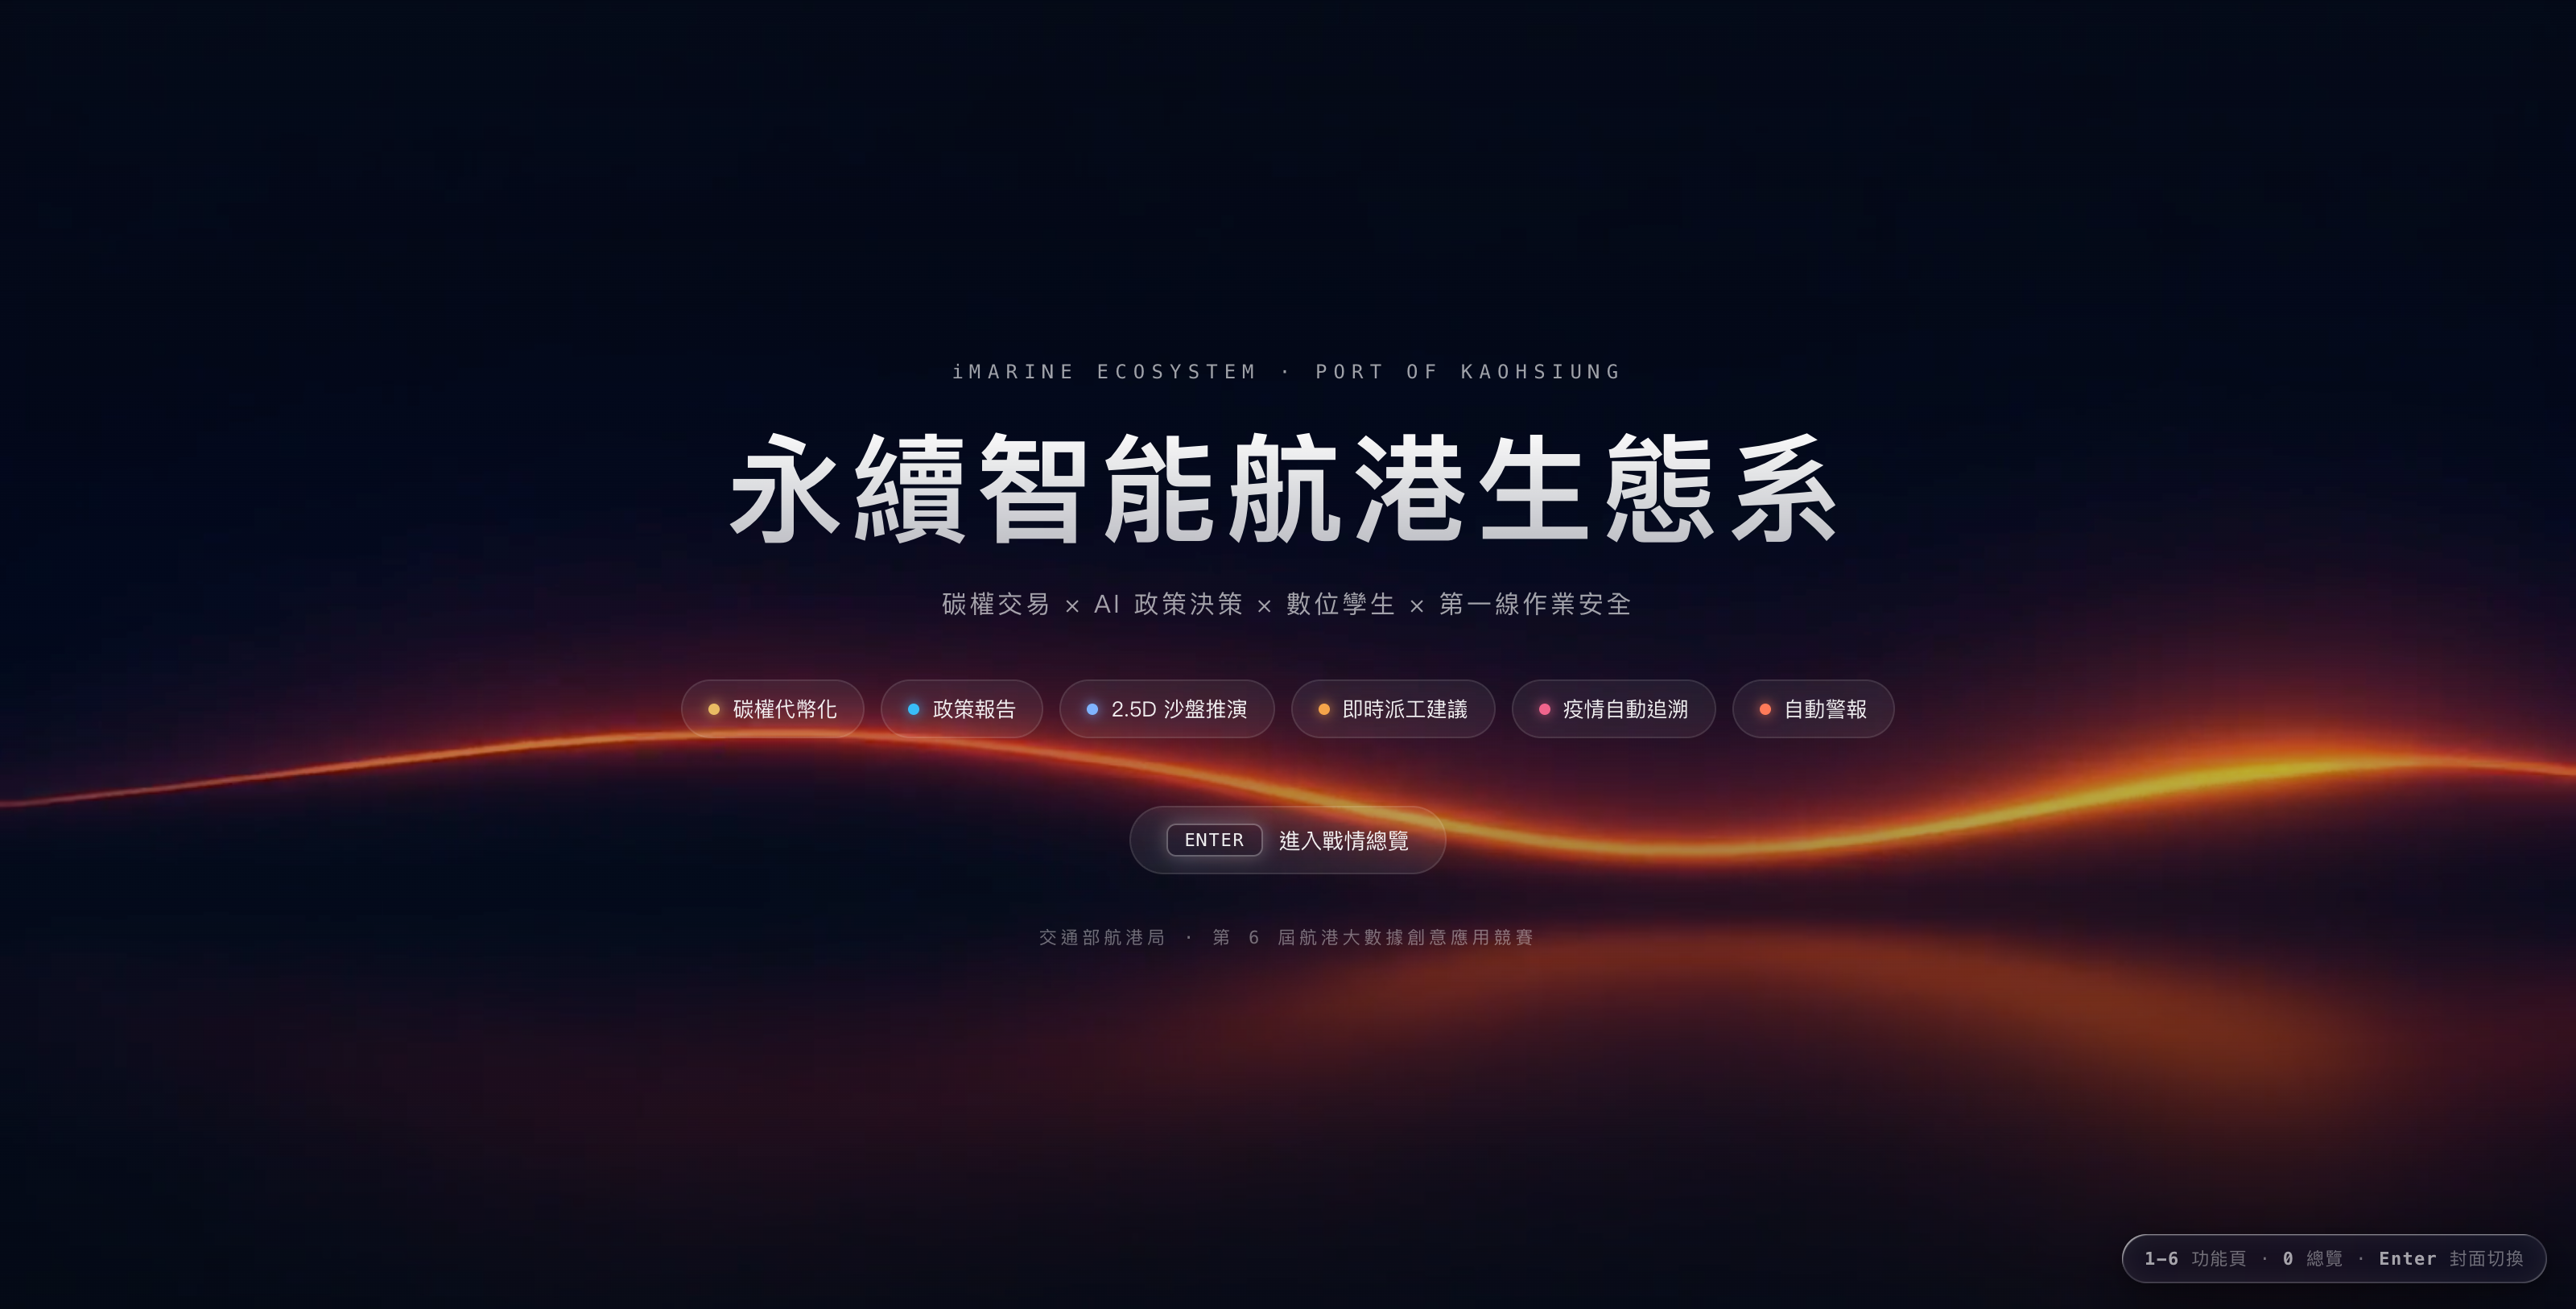
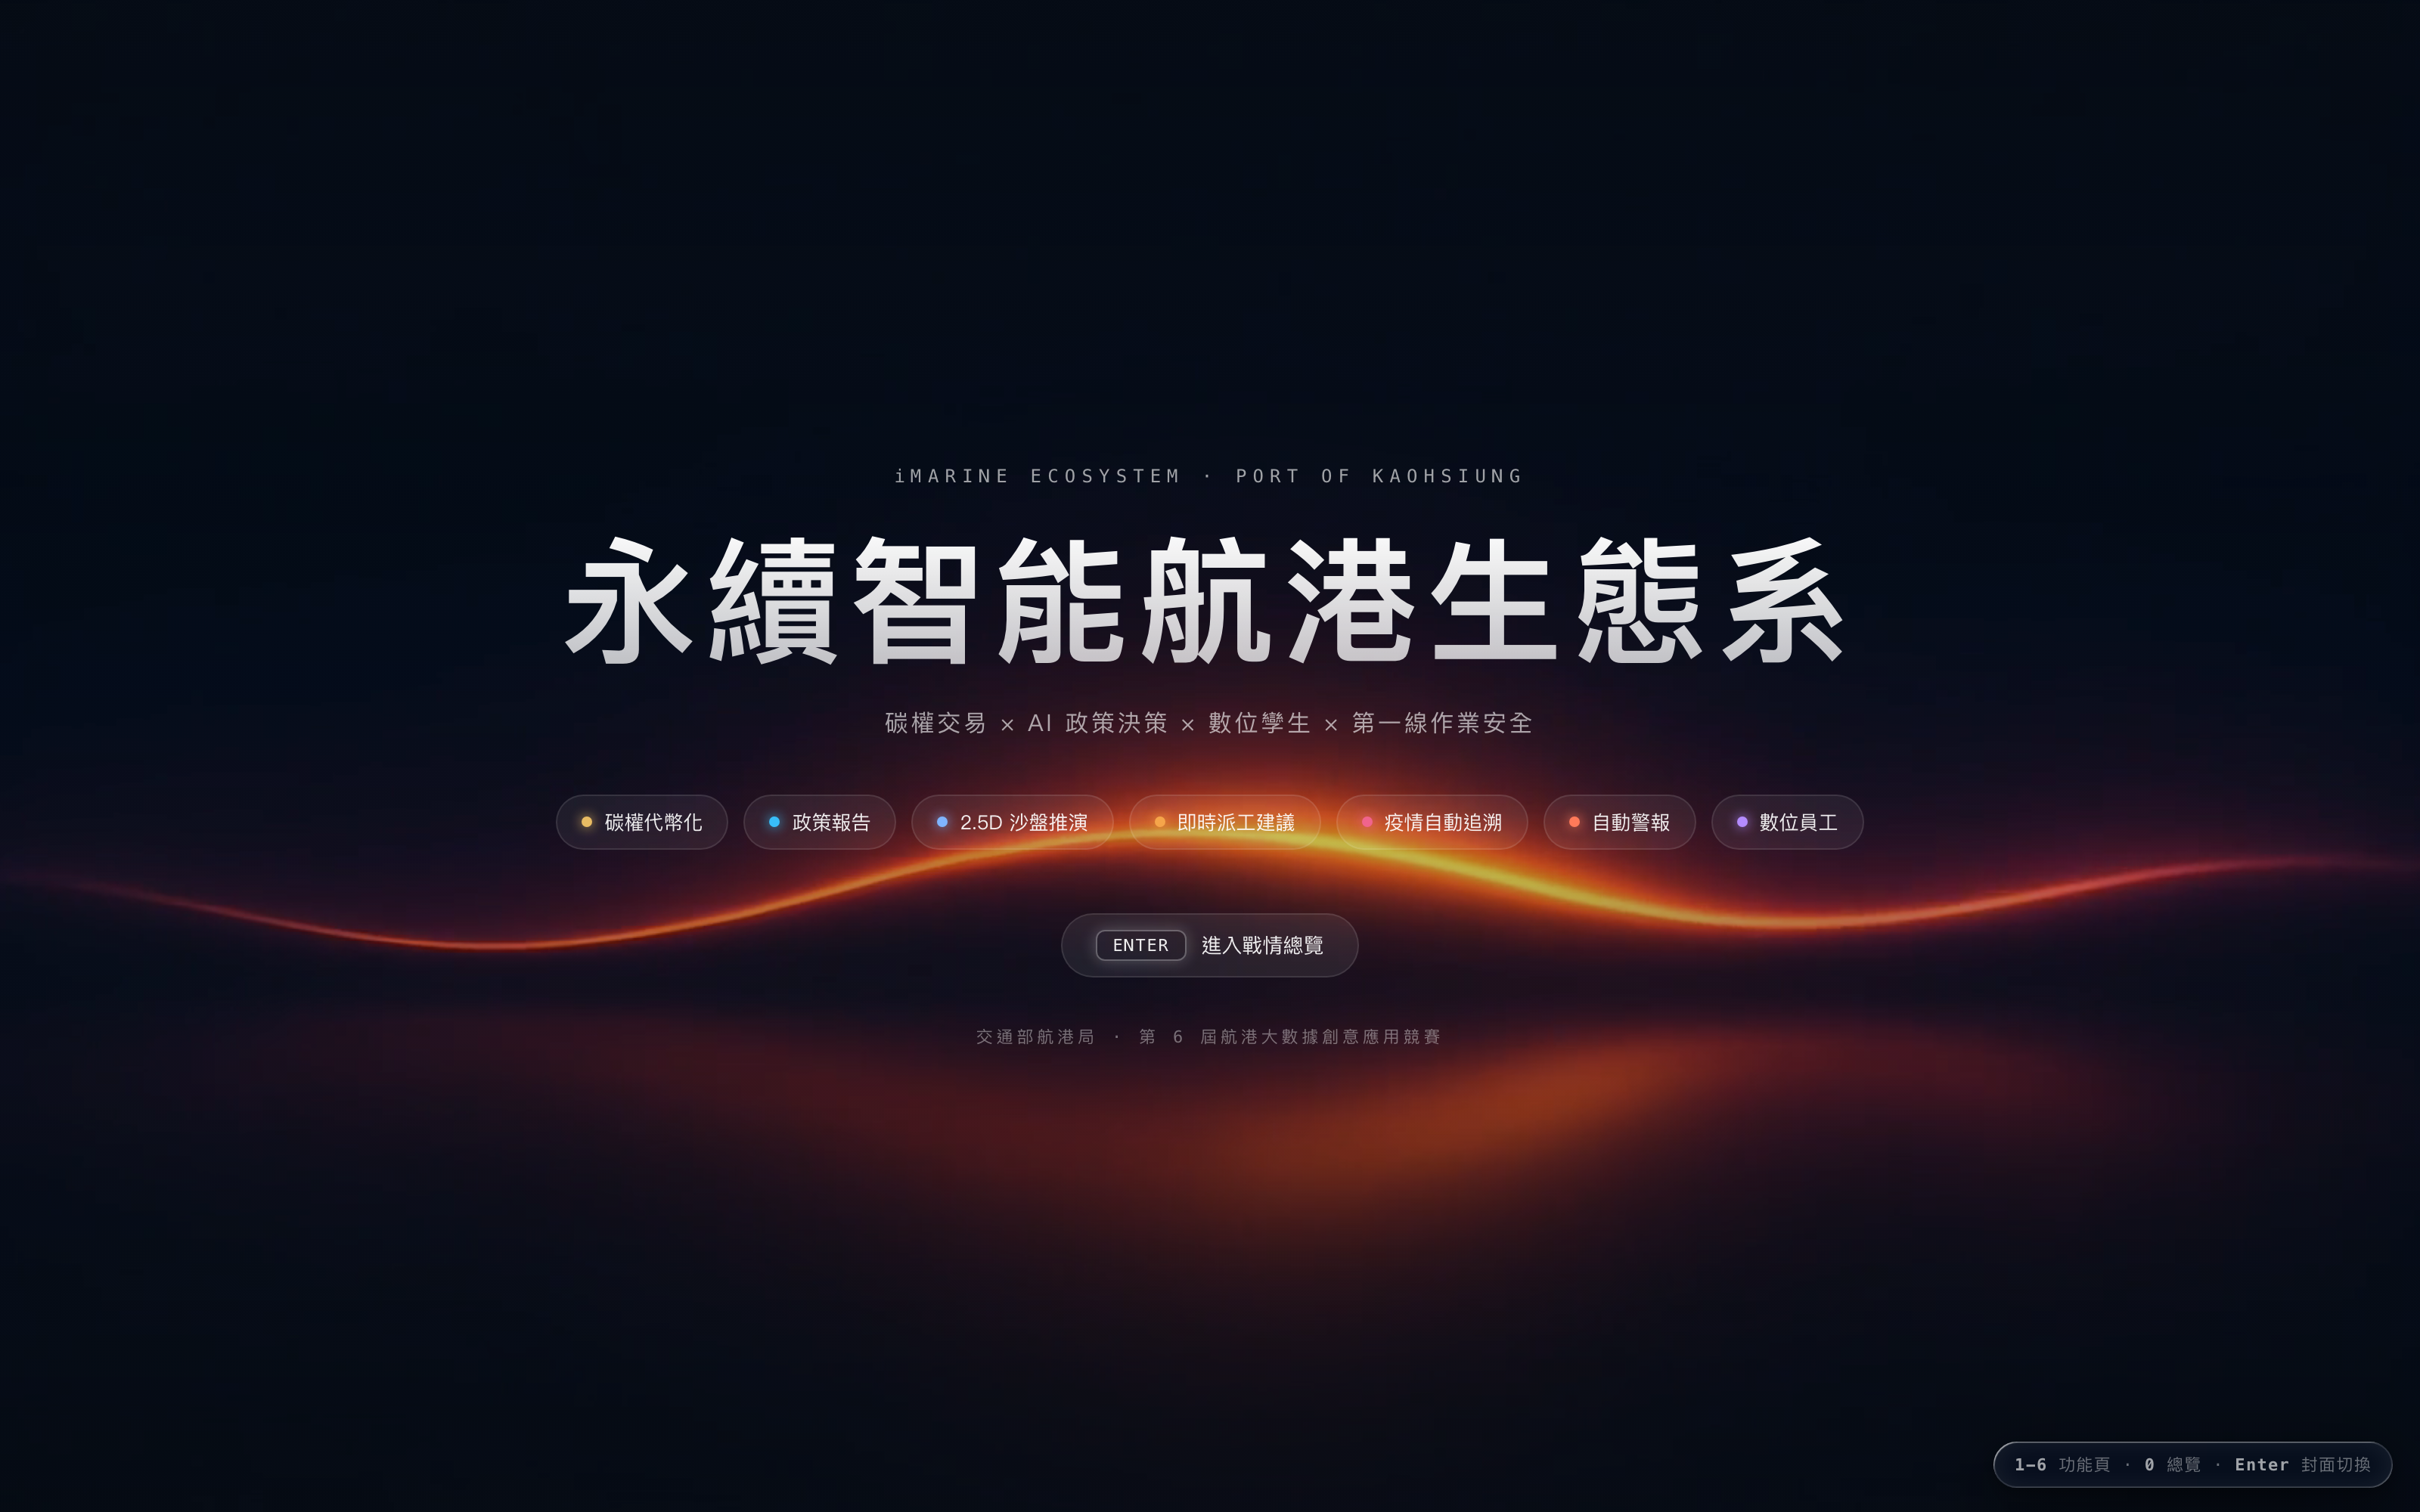
docs(readme): 數位員工入口 + settings 分區說明（key 可填設定頁免重啟）+ 更新 hero 7-chip/新增 settings 數位員工分區截圖

Changed region(s): [[0.0, 0.2768, 1.0, 0.9225], [0.8125, 0.9533, 1.0, 0.984]]

diff --git a/HANDOFF.md b/HANDOFF.md
@@ -2,19 +2,19 @@
 
 > 活文件：目前進度、決策紀錄、下一步。接手先讀這份，再讀 `CLAUDE.md`。
 
-最後更新：2026-07-11 **「hero 封面 chips 加數位員工 + settings 數位員工分區 + agent config.ts 讀取點接線」輪 SDD 4 tasks + 本 Task 5 全站驗收皆完成（分支 `agent-entry-settings`，`ce129cf`→`2f519b3`，尚未合併回 main）。** 三綠燈 tsc 0 / vitest 26 檔 123 tests 全綠 / build ok；CDP 全站迴歸 47/47 PASS（獨立 headless Chrome + SwiftShader :9477 + 自起 dev server :5199、`VITE_GEMINI_API_KEY` 空值 override，未動使用者 `.env`/既有 `:5173`/`:5174`/`:8000`），涵蓋 hero 7 chips/settings 分區/dummy key 驅動 live↔mock 即時切換（subscribe 於畫面隱藏時也生效）/friendlyError 文案/測試連線/autoPatrol boot-time gating/9 頁鍵盤 sweep/console 零例外全 8 項驗收清單。**下一步：使用者以真實 Gemini key 驗證設定頁 key 的完整成功案例＋測試連線成功訊息 → 決定合併方式。**（前一輪「數位員工 Agent screen 初建 + 操作體驗 Refine」已完結並 push origin main，敘述保留於下方。）
+最後更新：2026-07-11 **「hero 封面 chips 加數位員工 + settings 數位員工分區 + agent config.ts 讀取點接線」輪全案完結——SDD 5 tasks + 最終 whole-branch review（opus, `dd5cd3a`..`a3cbcc5` = Ready to merge: Yes，零 Critical/Important）+ 使用者真實 Gemini key 實機驗收 OK，已 fast-forward 合併回 main（`dd5cd3a`→`a3cbcc5`，7 commits）、分支 `agent-entry-settings` 已刪、README/HANDOFF 收尾後 push origin main。** 三綠燈 tsc 0 / vitest 26 檔 123 tests 全綠 / build ok；CDP 全站迴歸 47/47 PASS（獨立 headless Chrome + SwiftShader :9477 + 自起 dev server :5199、`VITE_GEMINI_API_KEY` 空值 override，未動使用者 `.env`/既有 `:5173`/`:5174`/`:8000`），涵蓋 hero 7 chips/settings 分區/dummy key 驅動 live↔mock 即時切換（subscribe 於畫面隱藏時也生效）/friendlyError 文案/測試連線/autoPatrol boot-time gating/9 頁鍵盤 sweep/console 零例外全 8 項驗收清單。使用者已用自己的 Gemini key 實測設定頁填 key→標題列即時切 GEMINI LIVE→live 對話 = OK。**唯一待使用者善後：協作者 PR #1（`feat/policy-rag-integration`）於 GitHub 手動關閉 + 告知協作者（前輪遺留、無 gh 無法代做）；out-of-scope 待決：`index.html` 提示列「1-6 功能頁 · 0 總覽」過時（實為 0-8），建議另立獨立 commit 修、勿 drive-by。**（前一輪「數位員工 Agent screen 初建 + 操作體驗 Refine」已完結並 push origin main，敘述保留於下方。）
 
 ---
 
 ## 1. 目前狀態
 
-**hero 封面 chips 加數位員工 + settings 數位員工分區（本輪）：SDD 4 tasks + Task 5 全站驗收皆完成，分支 `agent-entry-settings`（自 main `dd5cd3a`）。三綠燈 + CDP 47/47 全綠；尚未合併回 main，等待使用者真實 Gemini key 實機驗收後再決定合併方式。**
+**hero 封面 chips 加數位員工 + settings 數位員工分區（本輪）：全案完結——SDD 5 tasks（各獨立 review Spec ✅ Quality Approved、Task 2 一個 Important「測試連線 catch 內動態 import 未保護」已修）+ 最終 whole-branch review（opus, `dd5cd3a`..`a3cbcc5` = Ready to merge: Yes、零 Critical/Important、七個 cross-cutting seam 全對照實碼通過）+ 使用者真實 Gemini key 實機驗收 OK，fast-forward 合併回 main（`dd5cd3a`→`a3cbcc5`，7 commits）+ 分支 `agent-entry-settings` 已刪 + README/HANDOFF 收尾 + push origin main。分支自 main `dd5cd3a`。**
 - 動機：使用者委託全掃 agent 程式碼盤點可調參數後核可 6 項升級為 settings 欄位（geminiKey/model/測試連線/sourceMode/autoPatrol/狀態唯讀），比照既有 mapbox token「有限生效」前例——demo 現場免碰 `.env`、免重啟 dev server 即可切換 live/mock 或抽換 key；hero 封面同步補上第 7 顆「數位員工」入口 chip（總覽儀表牆語意上仍是六大功能，不動）。決策紀錄與盤點表見 `docs/superpowers/specs/2026-07-11-agent-hero-settings-design.md` §1/§4。
 - **成果檔案**：新增 `src/screens/agent/config.ts`（`effectiveKey`/`effectiveModel`/`isLive` 三純函式，settings 覆寫 `.env` 的唯一真相）+ `src/screens/settings/sections/agent.ts`（數位員工分區：Group1「Gemini 連線」explicit 存/棄語意含 `測試連線` action、Group2「行為」instant 含 `sourceMode`/`autoPatrol`、Group3「狀態」唯讀 custom）+ `tests/{agent-config,settings-agent-section}.test.ts`（15 tests）。接線改動（只換三個既有讀取點，不動引擎邏輯）：`src/screens/settings/index.ts`（註冊 `agentSection`，緊接 `alertSection` 之後）、`src/screens/agent/index.ts`（header chip 改讀 `isLive()` + `subscribe('agent.geminiKey'/'agent.sourceMode')` 即時跟隨、`greet()` 支援 `rep===null` 的「自動巡檢已停用」分支、`show()` boot 判斷改讀 `getSetting('agent.autoPatrol', true)`）、`src/screens/agent/controller.ts`（live/mock 分派與 `runGemini` 呼叫改用 `isLive()`/`effectiveKey()`/`effectiveModel()`）、`src/screens/agent/loop.ts`（`MODEL` 常數改為 `runGemini` 的 `model?` 參數、`friendlyError` 金鑰無效文案補「系統設定「數位員工」分區」字樣）、`src/screens/hero/index.ts`（`chipMods = SCREENS.slice(1,8)` 供封面 7 chips、`cardMods = SCREENS.slice(1,7)` 供總覽 6 卡，兩者拆開不再共用同一個 slice）。
-- **SDD 4 tasks（各自逐 task 完成）**：(1) `ce129cf` config.ts 三純函式 TDD；(2) `63e23cd` settings 數位員工分區骨架；(3) `0a168d2` 測試連線 catch 內動態 import 加保護（保證 never-throw，比照 `testCarbon` 的絕不拋錯契約）；(4) `1f6d4df` 三個既有讀取點改走 config.ts（chip subscribe / autoPatrol boot gate / model 參數）；hero chips 六變七獨立成 `2f519b3`（原 plan 併入本輪范圍，未另立 task 編號）。
+- **SDD 5 tasks（各自逐 task 獨立 review）**：(1) `ce129cf` config.ts 三純函式 TDD；(2) `63e23cd` settings 數位員工分區（+ fix `0a168d2`：測試連線 catch 內動態 import 加巢狀 try/catch 保證 never-throw，比照 `testCarbon` 絕不拋錯契約——Task 2 review 抓到的 Important）；(3) `1f6d4df` 三個既有讀取點改走 config.ts（chip subscribe / autoPatrol boot gate / model 參數，Task 3 review 用 opus，五個 cross-cutting risk 全 trace clean）；(4) `2f519b3` hero chips 六變七；(5) `762e35a` 全站驗收 + HANDOFF（純文件無產品碼，併入最終 whole-branch review），spec/plan 另 commit `a3cbcc5`。全 7 commit author=charles、無 Claude/Anthropic 署名。
 - **驗收（Task 5，本輪，誠實分野）**：三綠燈——`tsc --noEmit` 0、`vitest run` 26 檔 123 tests 全綠（基線含本輪新增 15 tests）、`build` 成功。CDP 全站迴歸（獨立 headless Chrome + SwiftShader :9477、自起 dev server :5199 以 `VITE_GEMINI_API_KEY=` 空值 override 另起、未動使用者 `.env`/既有 `:5173`/`:5174`/`:8000`，跑畢已清自己起的進程）：spec §5 全 8 項驗收清單 47/47 斷言 PASS——① hero 封面 7 chips（第 7 顆數位員工紫 `#B48CFF`、點擊跳轉）+ Enter→總覽仍 6 卡；② settings 數位員工分區排在 alert 之後、3 groups 正確渲染、`geminiKey` 遮罩、explicit 存/棄語意正確；③ dummy key（`dummy-invalid-key`，僅存 localStorage 非 `.env`）存檔後，**agent screen 當下仍隱藏於 DOM（router 快取式、mount 過的 screen 永不卸載）也已由 `subscribe` 即時切成「GEMINI LIVE」**——比「切過去才看到」更嚴格地證明訂閱在背景生效；切換過去送指令走 live 路徑，`Network.requestWillBeSent` 捕捉到真打 `generativelanguage.googleapis.com`、Gemini 真回 400，thread 顯示 `friendlyError`「Gemini 金鑰無效或未授權——檢查系統設定「數位員工」分區或 .env 的 key」（非原始 JSON dump）；④ `sourceMode=mock` 同樣隱藏態即時生效，送指令改走劇本（3 步 plan 渲染、Gemini 請求數送出前後不變）；⑤ 測試連線：key 清空→「未設定 key」（零 API 呼叫）、dummy key→金鑰無效訊息（Network 請求數 +1，證實真打了一次）；⑥ `autoPatrol=off` 存檔 + **真正整頁重載**（`Page.navigate` 兩段式，非僅切 hash——模組頂層 `booted` 變數才會重置）直達 `#/agent`：無 `.lampwall` 燈牆、招呼泡泡含「自動巡檢已停用」、3 chips 照顯可點；`=on` 同法重載 → 7 張 lampcard（6 模組+設定）全亮、招呼帶健檢結論；⑦ 9 頁鍵盤 sweep `0`-`8` 全對映 + 版面非空、`#aInput` 內打數字走真實冒泡路徑仍不誤觸導覽；⑧ console 全程零 JS 例外。截圖 6 張（hero chips 換行觀感/總覽/settings 分區/測試連線/autoPatrol 開關兩態）存 scratch。
 - **環境註記（非本輪缺陷）**：CDP 驗收時 autoPatrol 健檢結論顯示「政策模組異常」，因 rag-agent（`:8100`）本機未啟動，沿用歷次 HANDOFF 已記錄的既有事實，非本輪改動所致。
-- **誠實分野**：dummy key 只驗證「模式切換 + 錯誤路徑」；**設定頁 key 的完整成功案例**（真 Gemini 回答 + 「測試連線」顯示「連線成功 · gemini-2.5-flash」）**留待使用者以自己的 Gemini key 實機驗證**，本輪未也不應假裝跑過。
+- **誠實分野（SDD session 內）→ 使用者實測已補齊**：SDD session 內 dummy key 只驗證「模式切換 + 錯誤路徑」，設定頁 key 的完整成功案例當時留待使用者驗；**使用者已於 2026-07-11 以自己的 Gemini key 實機驗收——設定頁填 key→標題列即時切「GEMINI LIVE」→live 對話正常 = OK**（測試連線「連線成功」訊息亦一併確認）。合併 push 前的收尾即基於此實測通過。
 - **殘留 Minor（未修，交後續 triage）**：(a) `tests/settings-agent-section.test.ts` 未涵蓋 `testGemini()` 的兩條 async 分支（未設定 key 短路 / 呼叫 Gemini 成功或失敗）——函式內部動態 `import('@google/genai')`/`import('../../agent/loop')`，現有測試只驗 schema 契約與欄位存在性、不模擬 fetch，CDP 本輪已補這兩條路徑的實機驗證；(b) `src/screens/agent/index.ts` 的 `mount()` 呼叫兩個 `subscribe(...)` 回傳的 unsubscribe 函式未接住、未於任何生命週期呼叫——因 agent screen 走快取式 router（`mount()` 全站僅呼叫一次、永不卸載），不構成記憶體洩漏，屬「該接未接」的殘留；(c) 附帶記錄（非本輪缺陷、不擅改）：`index.html` 第 18 行固定提示列 `<div id="hint">1-6 功能頁 · 0 總覽 · Enter 封面切換</div>` 為靜態字串，自專案骨架初始提交起即未再更新，鍵盤實際已支援 `0`-`8`（agent/settings 為更早輪次加入），本輪 `index.html` 零 diff，不屬本輪回歸。
 - spec：`docs/superpowers/specs/2026-07-11-agent-hero-settings-design.md`；plan：`docs/superpowers/plans/2026-07-11-agent-hero-settings.md`；逐 task 報告 `.superpowers/sdd/task-{1..5}-report.md`（scratch，未進版控，注意此路徑被多輪重複使用）。
 